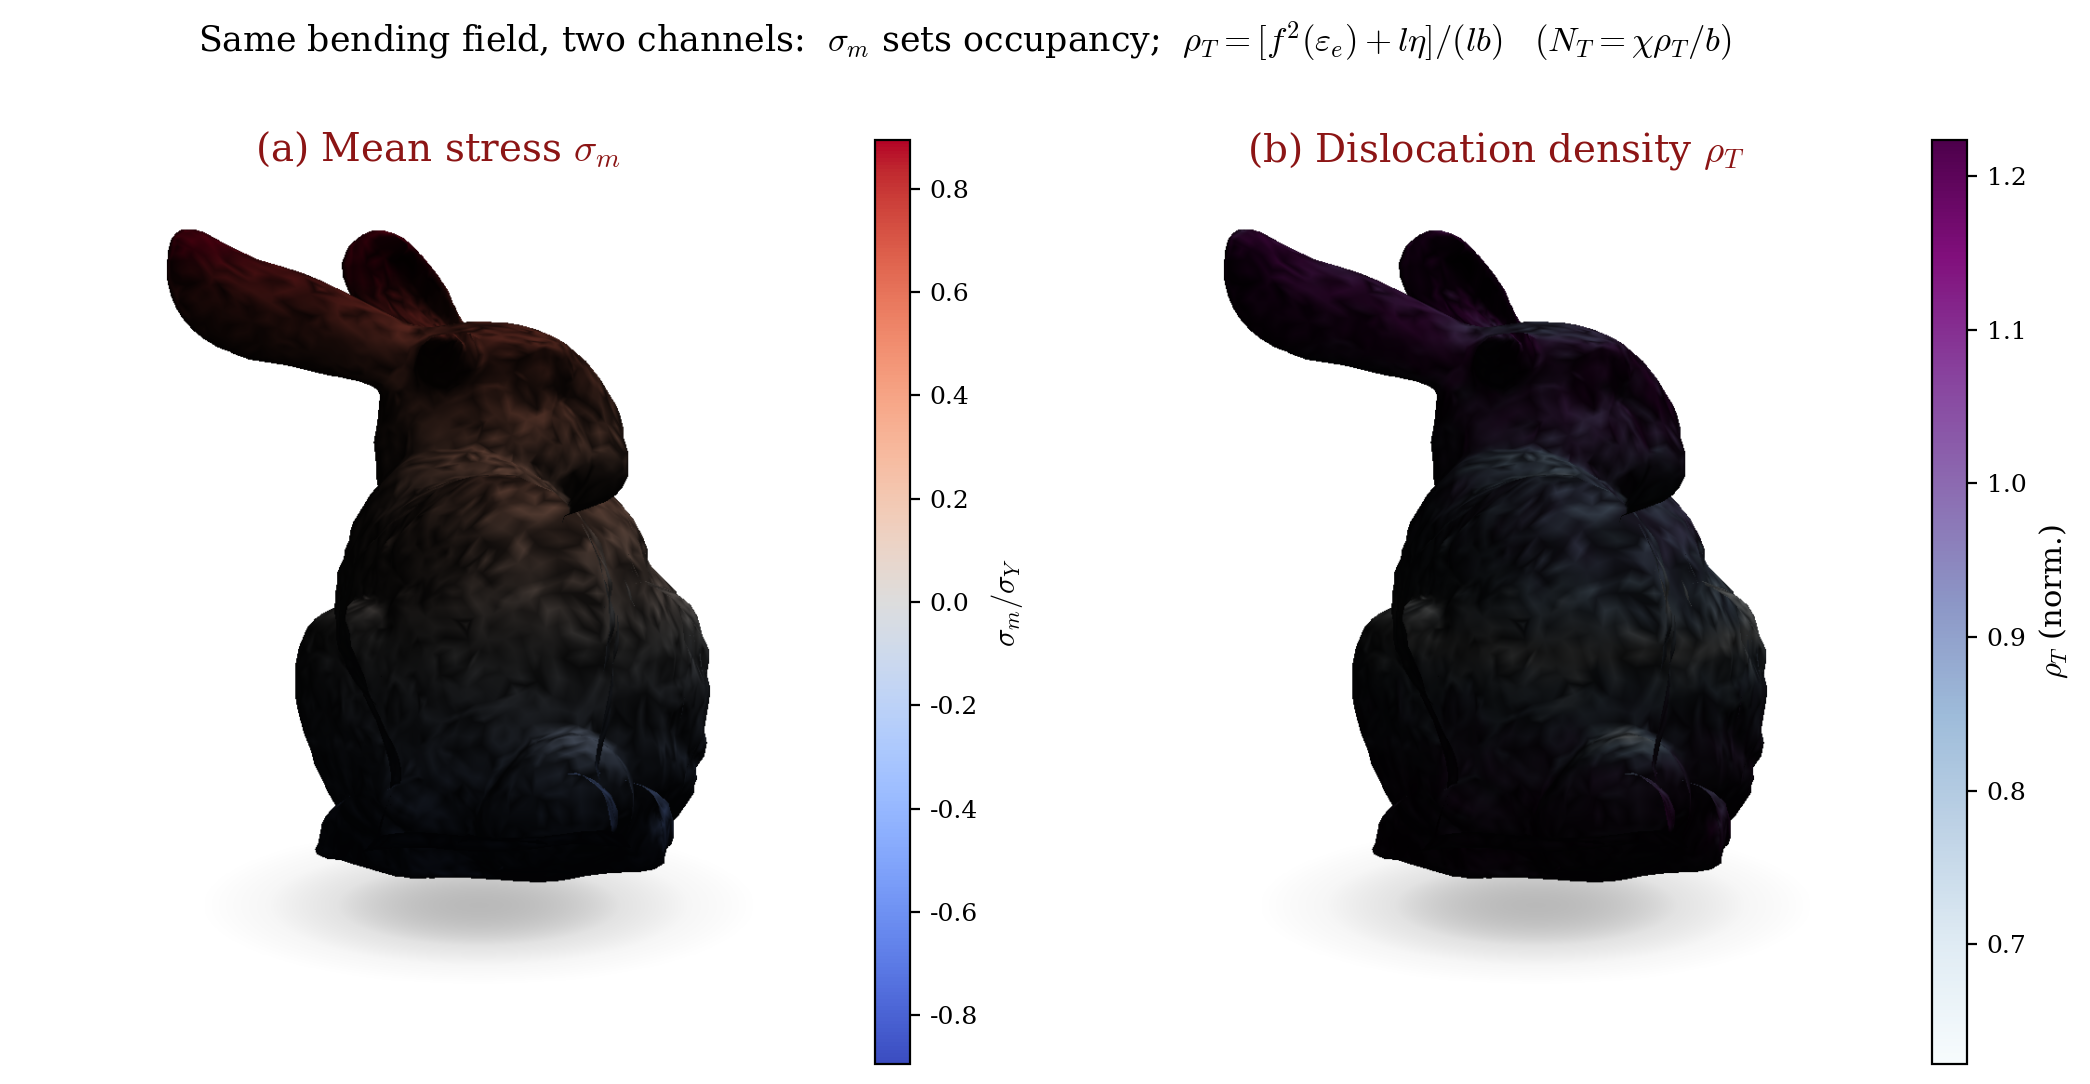
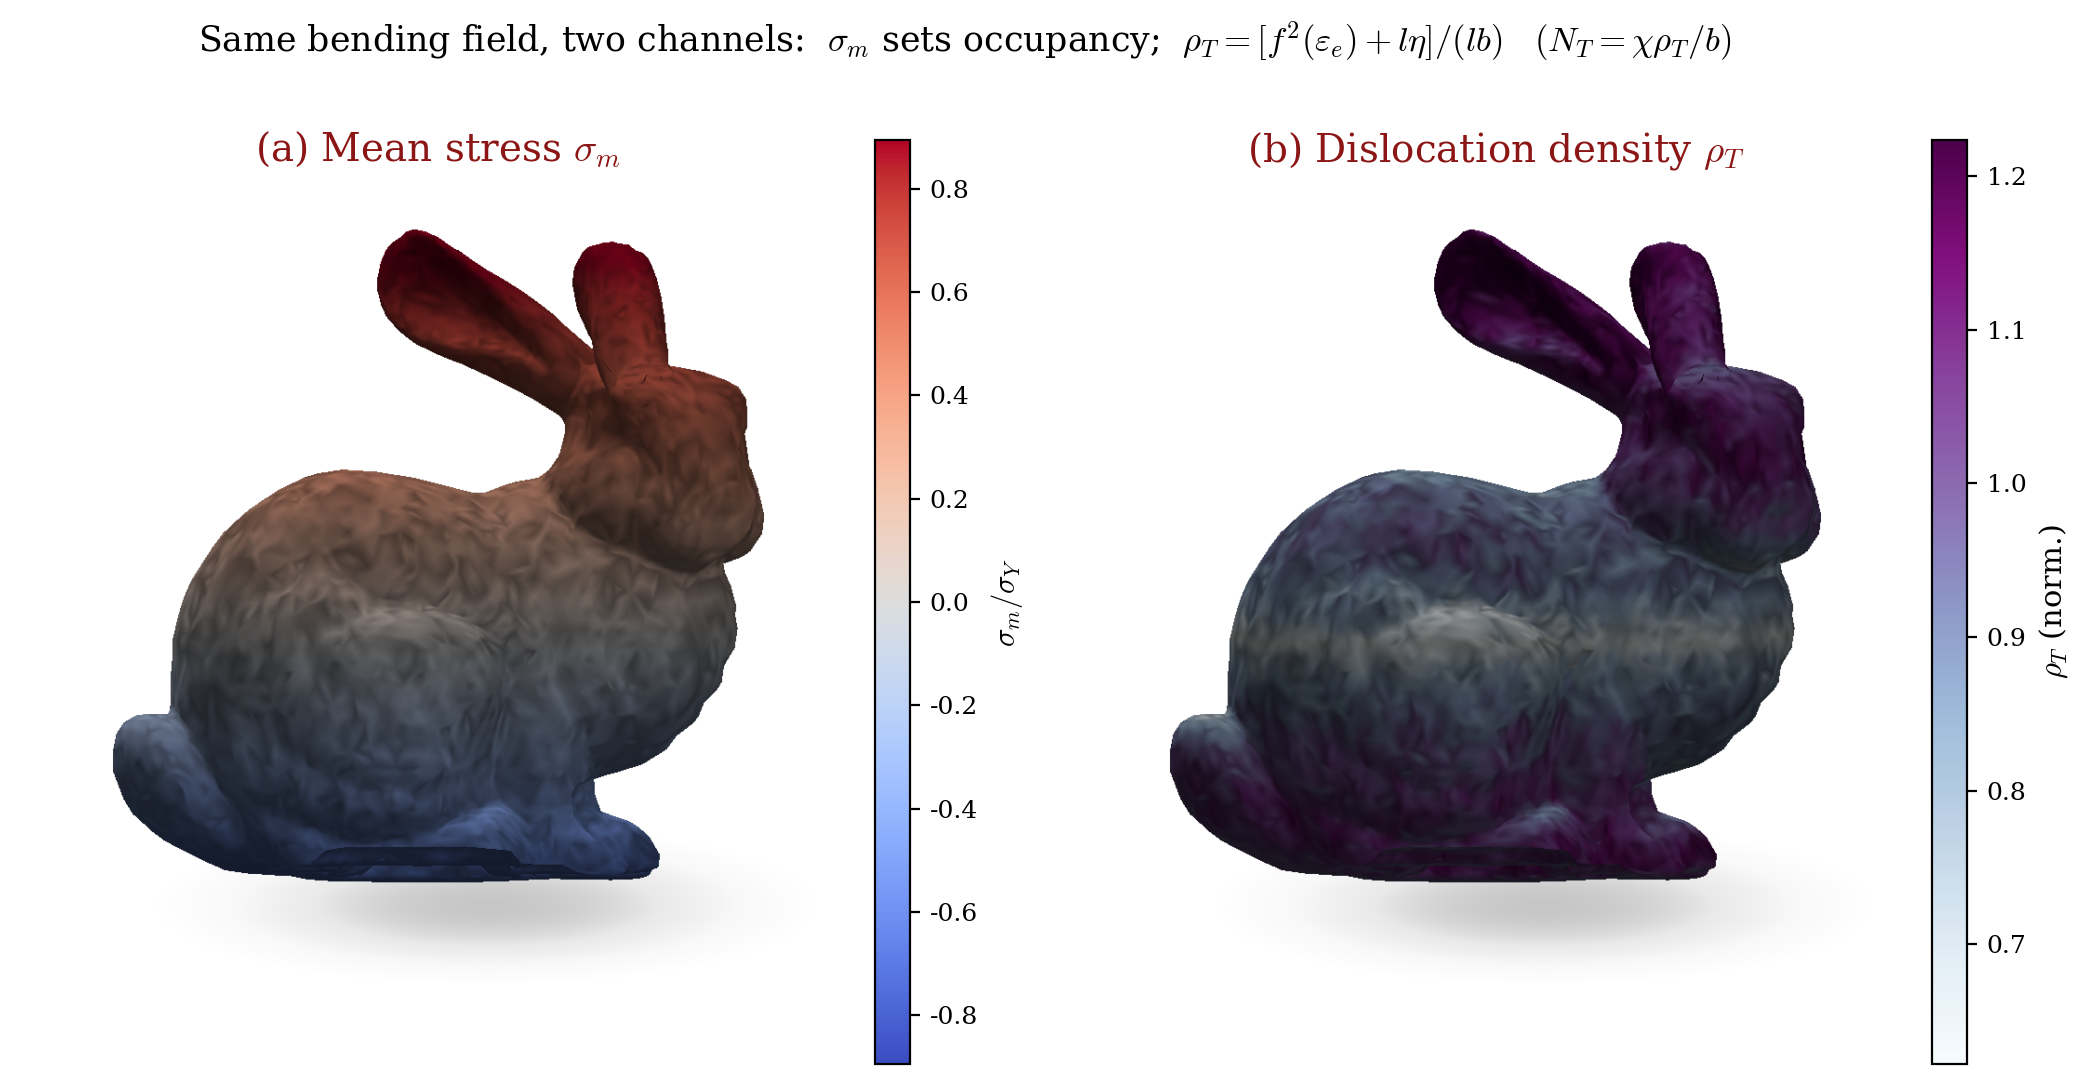
Restore terracotta face-out bunny for README (elev=-4, azim=262).

Changed region(s): [[0.0311, 0.2131, 0.3732, 0.822], [0.5598, 0.2131, 0.8708, 0.822]]

diff --git a/README.md b/README.md
@@ -11,7 +11,7 @@ problems for non-hydrostatic voids and a Mode-I slit with HELP softening.
 This repository is the theory library and the figure factory behind those plots.
 
 <p align="center">
-  <img src="docs/fig1_channels_bunny_faceout_v2.png" width="94%" alt="Illustrative sigma_m and rho_T on the Stanford bunny" />
+  <img src="docs/fig1_channels_bunny_faceout_v3.png" width="94%" alt="Illustrative sigma_m and rho_T on the Stanford bunny" />
 </p>
 
 <p align="center"><i>
